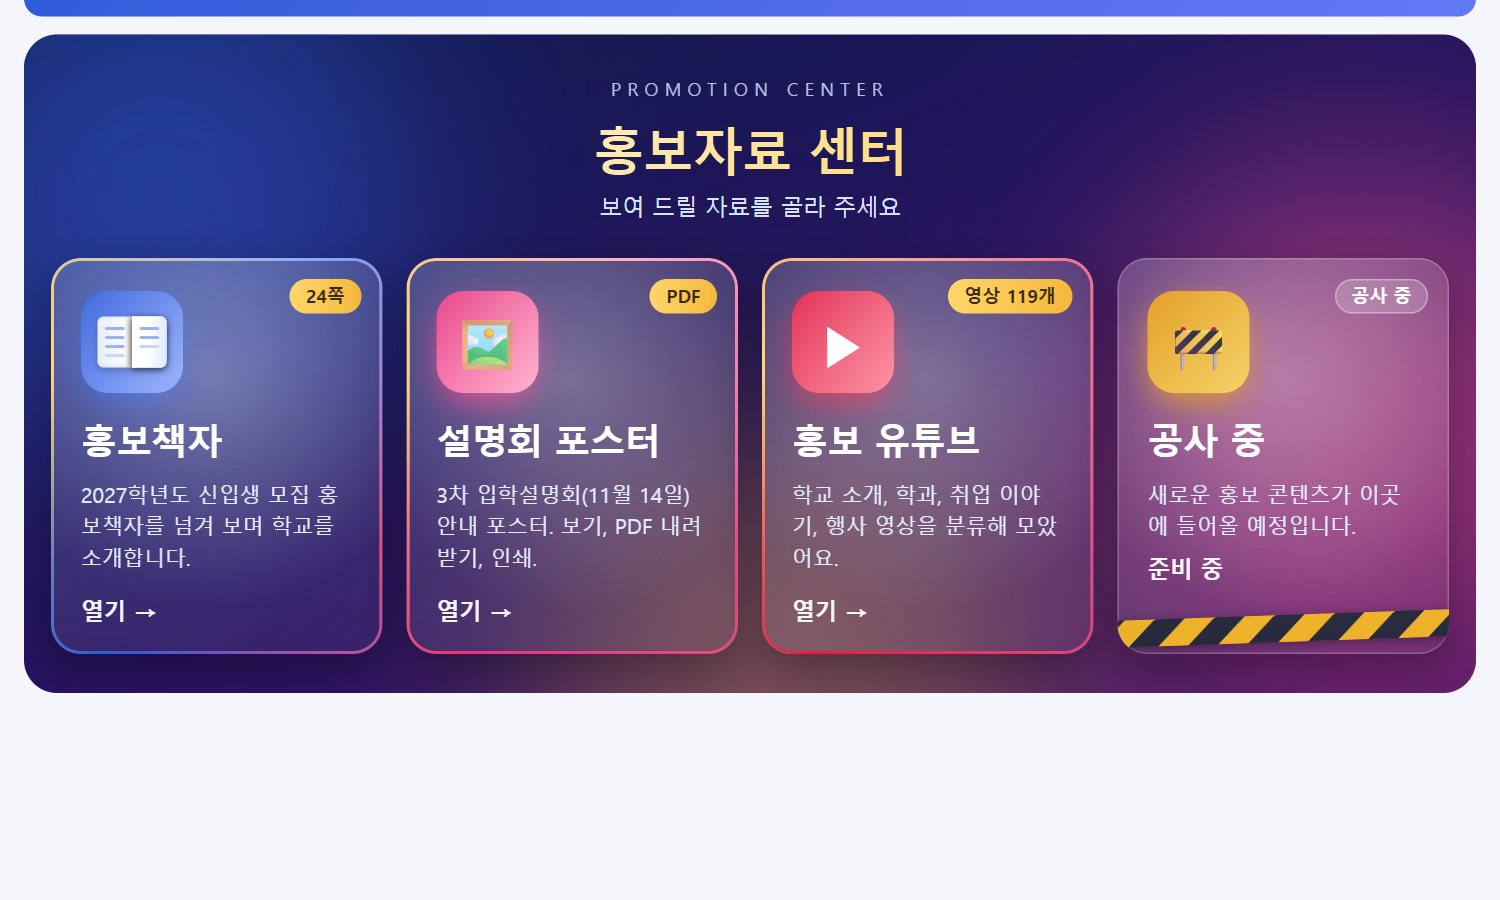
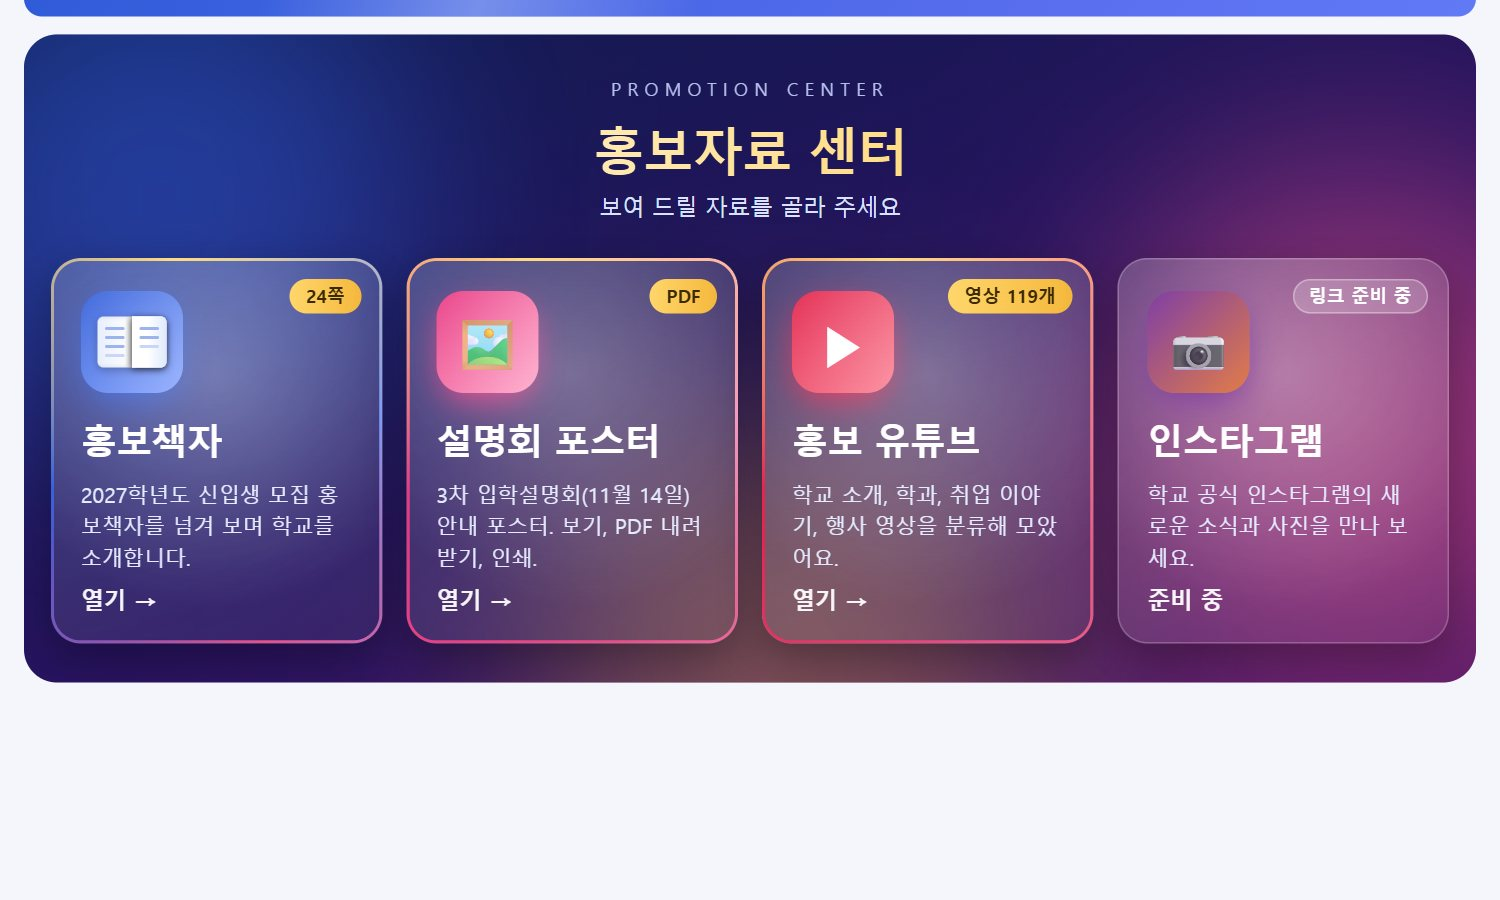
Promotion center: Instagram card replaces under-construction card (link pending)

diff --git a/index.html b/index.html
@@ -248,7 +248,7 @@ svg.chart .val{fill:var(--tx);font-size:12px;font-weight:700}
 td.nt{min-width:110px}
 #f_고민내용::placeholder{color:var(--mu);opacity:.45}
 
-/* ===== 움직임 (2026-10-19.1) ===== */
+/* ===== 움직임 (2026-10-19.2) ===== */
 :root{--fresh:#fff5d6;--freshbd:#f5b83d;--glow:rgba(245,184,61,.55);--glow2:rgba(232,80,138,.45)}
 @media (prefers-color-scheme:dark){:root{--fresh:#3d3216;--glow:rgba(245,184,61,.45);--glow2:rgba(244,114,182,.4)}}
 /* 디데이 배너: 색이 천천히 흐르고 빛이 가끔 스침 */
@@ -867,11 +867,12 @@ function bindHome() {
 }
 /* ---- 홍보자료 센터(허브): 항목을 고르면 해당 자료로 들어간다. 새 자료는 PHUB에 한 줄만 추가하면 된다 ---- */
 var PMODE = 'hub', LASTTAB = '';
+var IG_URL = '';   // 학교 인스타그램 주소를 여기에 넣으면 카드가 열립니다. 예: 'https://www.instagram.com/계정이름/'
 var PHUB = [
   { id: 'book', ico: '📖', t: '홍보책자', d: '2027학년도 신입생 모집 홍보책자를 넘겨 보며 학교를 소개합니다.', tag: '24쪽', ready: true, c1: '#2f5bd8', c2: '#7b9cff' },
   { id: 'poster', ico: '🖼', t: '설명회 포스터', d: '3차 입학설명회(11월 14일) 안내 포스터. 보기, PDF 내려받기, 인쇄.', tag: 'PDF', ready: true, c1: '#e8337f', c2: '#ff9ac1' },
   { id: 'yt', ico: '▶', t: '홍보 유튜브', d: '학교 소개, 학과, 취업 이야기, 행사 영상을 분류해 모았어요.', tag: '영상 ' + ytCount() + '개', ready: true, c1: '#e11d48', c2: '#fb7185' },
-  { id: 'wip', ico: '🚧', t: '공사 중', d: '새로운 홍보 콘텐츠가 이곳에 들어올 예정입니다.', tag: '공사 중', ready: false, hazard: true, c1: '#f59e0b', c2: '#fcd34d' }
+  { id: 'ig', ico: '📷', t: '인스타그램', d: '학교 공식 인스타그램의 새로운 소식과 사진을 만나 보세요.', tag: IG_URL ? '바로가기' : '링크 준비 중', ready: !!IG_URL, url: IG_URL, c1: '#8a3ab9', c2: '#f77737' }
 ];
 function bookIcon() {   // 책장이 계속 넘어가는 책 아이콘
   return '<span class="bk" aria-hidden="true"><i class="bk-l"></i><i class="bk-r"></i><i class="bk-p"></i><i class="bk-p" style="animation-delay:.45s"></i><i class="bk-p" style="animation-delay:.9s"></i></span>';
@@ -888,7 +889,7 @@ function viewHub() {
 }
 function hubGo(i, el) {
   var x = PHUB[i];
-  if (!x.ready) { el.classList.remove('shake'); void el.offsetWidth; el.classList.add('shake'); toast(x.id === 'yt' ? '홍보 유튜브는 곧 추가될 예정입니다.' : '아직 공사 중이에요. 곧 새 자료가 들어옵니다.'); return; }
+  if (!x.ready) { el.classList.remove('shake'); void el.offsetWidth; el.classList.add('shake'); toast(x.id === 'ig' ? '인스타그램 주소는 곧 연결됩니다.' : '곧 추가될 예정입니다.'); return; }
   if (x.url) { window.open(x.url, '_blank', 'noopener'); return; }
   if (x.id === 'book') { PMODE = 'book'; render(); window.scrollTo(0, 0); }
   if (x.id === 'poster') { PMODE = 'poster'; render(); window.scrollTo(0, 0); }
@@ -1848,7 +1849,7 @@ setInterval(function () { Array.prototype.forEach.call(document.querySelectorAll
 
 FORM = { 단계: '' };
 /* 새 버전 확인: 브라우저가 옛 화면을 붙들고 있으면 알려준다 */
-var APP_VER = '2026-10-19.1';
+var APP_VER = '2026-10-19.2';
 function checkUpdate() {
   try {
     fetch(location.pathname + '?v=' + Date.now(), { cache: 'no-store' }).then(function (r) { return r.text(); }).then(function (t) {

diff --git a/manual/index.html b/manual/index.html
@@ -286,7 +286,7 @@ figure.vid video{display:block;max-width:300px;width:100%;margin:0 auto;border-r
     <tr><td><b>홍보책자</b></td><td>2027학년도 신입생 모집 홍보책자(24쪽)를 넘겨 보며 설명합니다.</td></tr>
     <tr><td><b>설명회 포스터</b></td><td>3차 입학설명회(11월 14일 토요일 오전 10시, 학교 내 강당 우봉관) 안내 포스터입니다. 보기, PDF 내려받기, 인쇄를 할 수 있습니다.</td></tr>
     <tr><td><b>홍보 유튜브</b></td><td>학교 유튜브 채널의 영상을 분류별로 모아 놓았습니다. 화면 안에서 바로 재생합니다.</td></tr>
-    <tr><td><b>공사 중</b></td><td>앞으로 새 홍보 자료가 들어올 자리입니다.</td></tr>
+    <tr><td><b>인스타그램</b></td><td>학교 공식 인스타그램으로 연결됩니다. 주소가 정해지는 대로 연결되며, 그 전에는 "링크 준비 중"으로 표시됩니다.</td></tr>
   </table>
   <p>각 자료 화면 맨 위의 <b>← 홍보자료 센터</b>를 누르면 센터로 돌아옵니다.</p>
 
